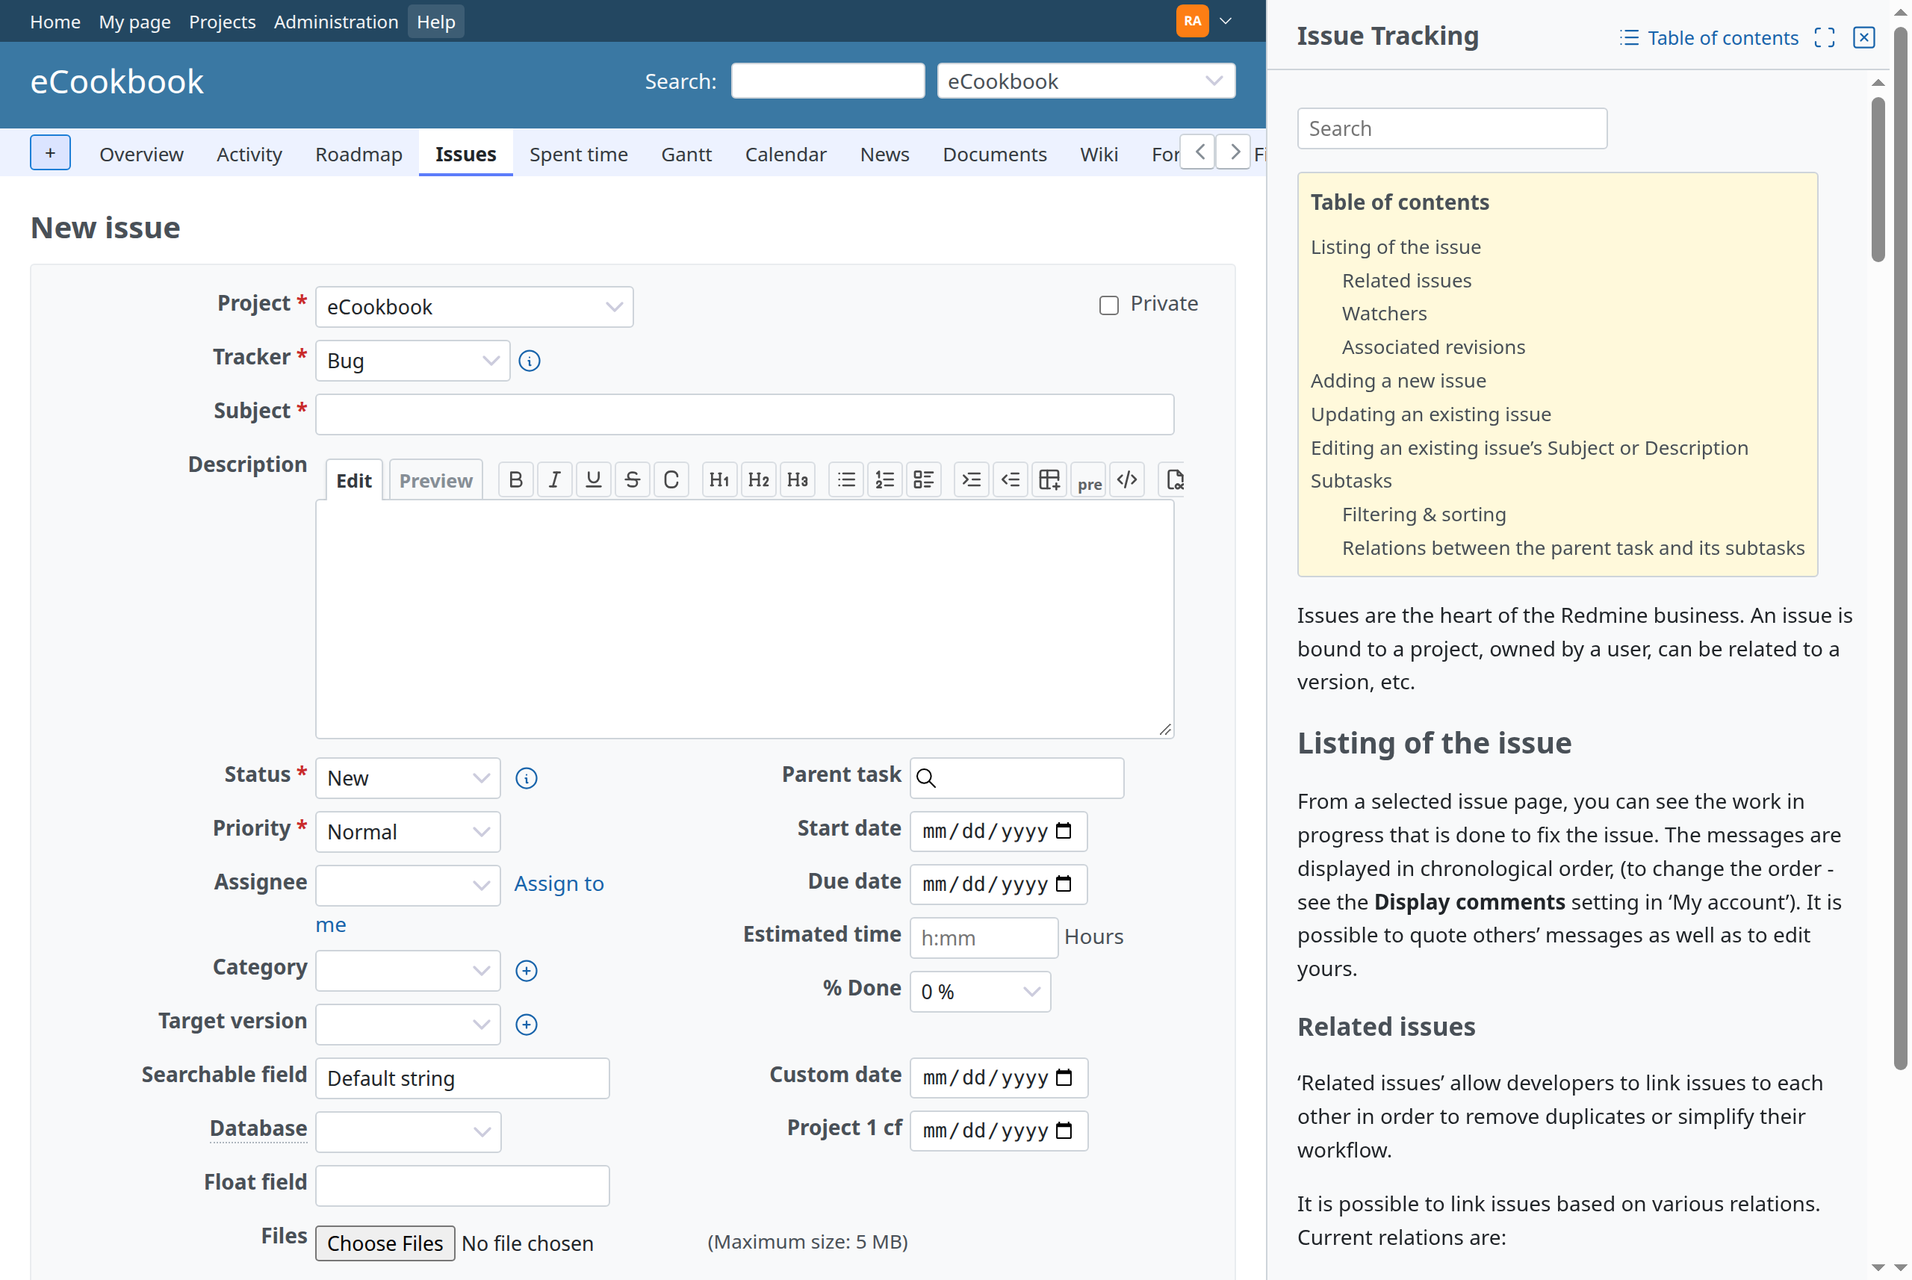
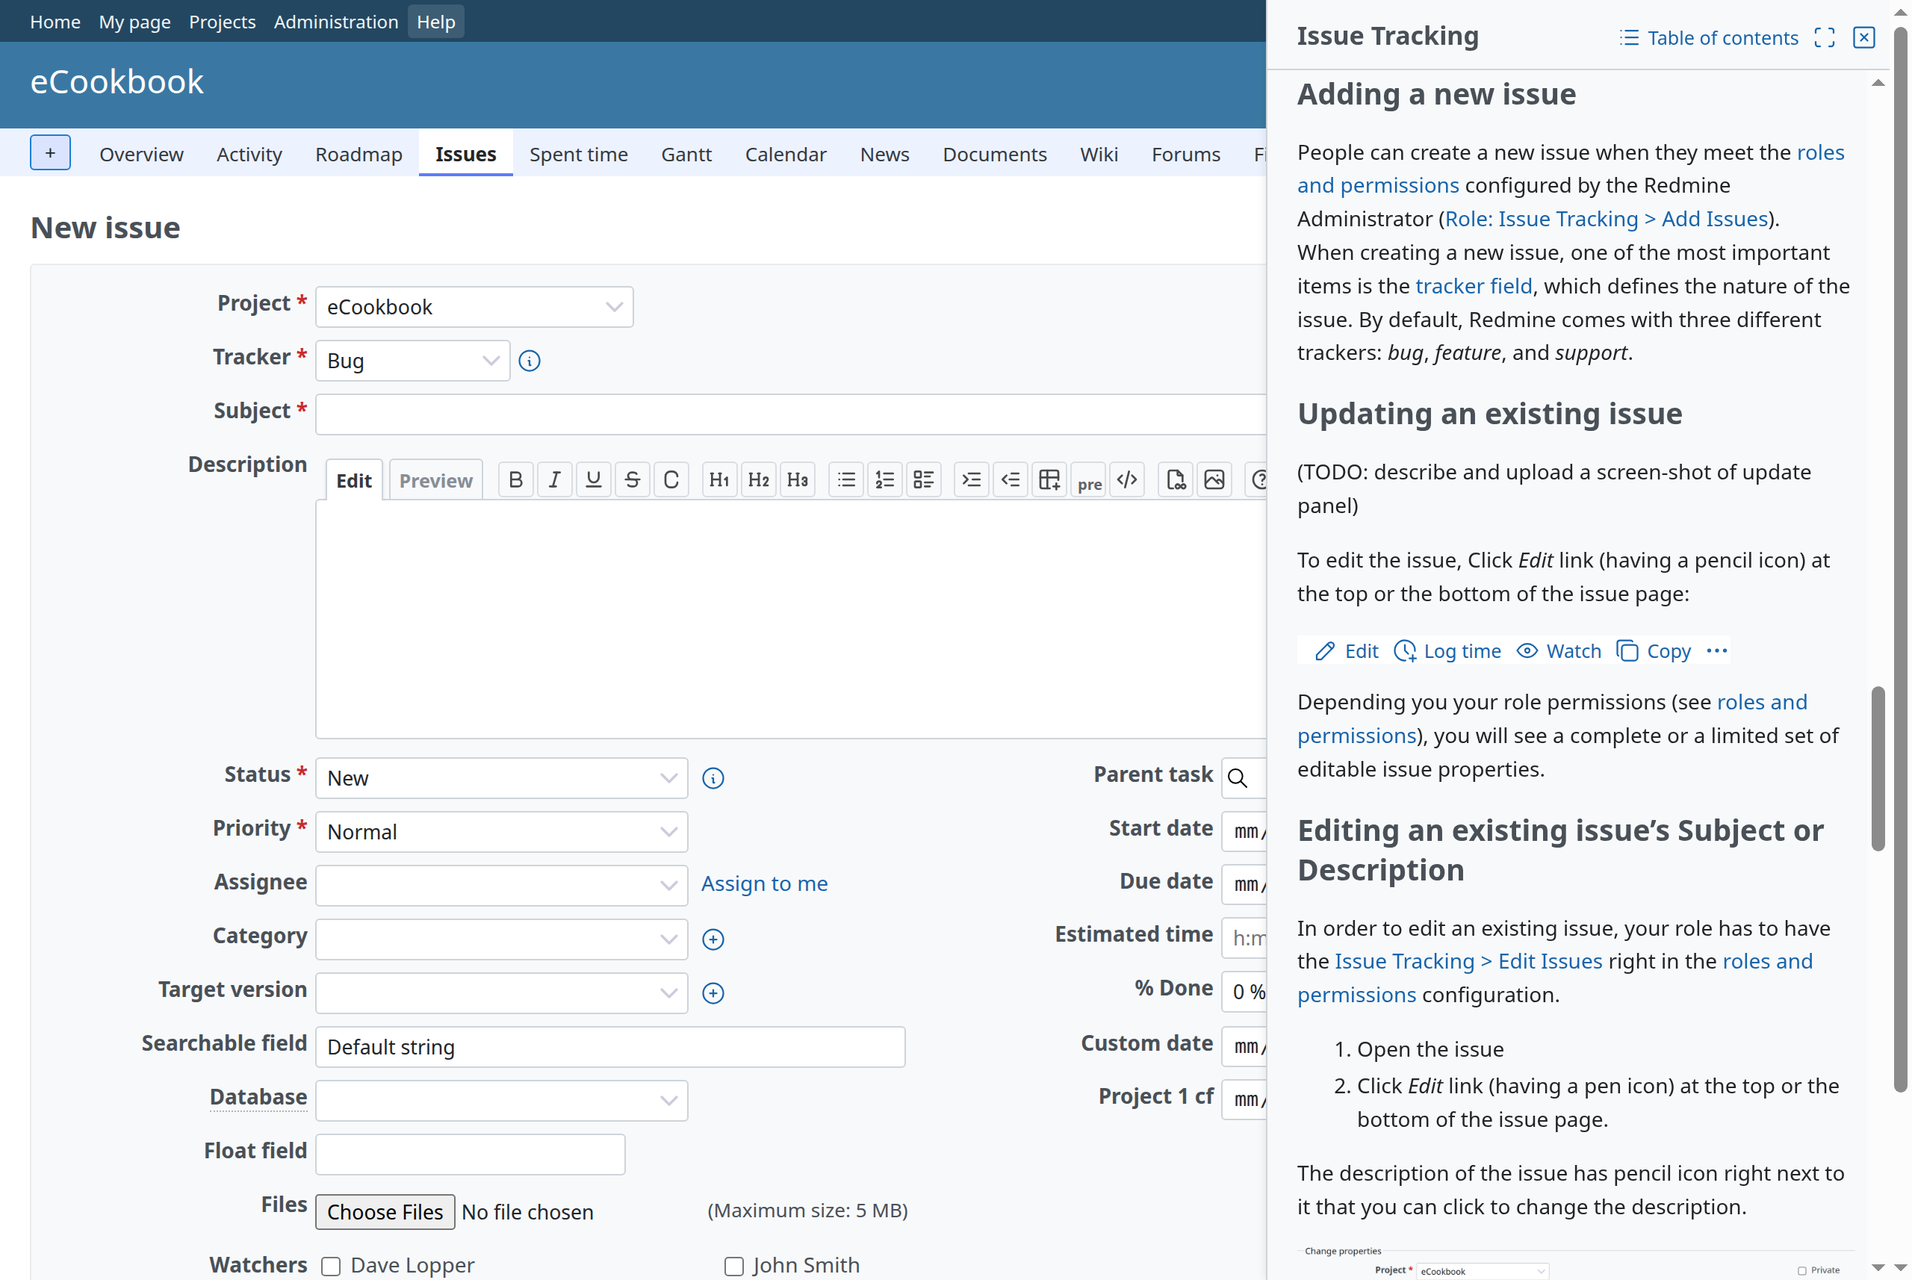
Lay the side panel over the page in the pattern
Redmine Help's panel is now laid over the end side of the window instead
of pushing the page: the CSS has no margin on #wrapper, the edge of core's
dropdowns, z-index 1001 above the sticky issue header and dropdowns, and
a class that puts the panel under core's modal dialogs while one is open.
The reasons, the checks and the screenshots (Japanese demo data in
Japanese) follow.

diff --git a/docs/ja/side-panel.md b/docs/ja/side-panel.md
@@ -1,14 +1,14 @@
 # サイドパネル
 
-ウィンドウの端、画面の横に開くパネルです。画面を操作しながら読む内容 (たとえば画面のヘルプ) に使います。Redmine 7.0.3 にはサイドパネルがないため、このパターンは本体の部品で組み立て、枠だけを小さなスタイルシートで足します。[Redmine Help](https://redmine-kit.github.io/redmine_help/ja/) のパターンです。Redmine Help では、ヘッダーの「ヘルプ」がいま開いている画面のヘルプをサイドパネルに開きます。
+ウィンドウの端に、画面に重ねて開くパネルです。画面を操作しながら読む内容 (たとえば画面のヘルプ) に使います。Redmine 7.0.3 にはサイドパネルがないため、このパターンは本体の部品で組み立て、枠だけを小さなスタイルシートで足します。[Redmine Help](https://redmine-kit.github.io/redmine_help/ja/) のパターンです。Redmine Help では、ヘッダーの「ヘルプ」がいま開いている画面のヘルプをサイドパネルに開きます。
 
-![新しいチケットのフォームの横の、Redmine Help のサイドパネル](images/side-panel.png)
+![新しいチケットのフォームに重ねた、Redmine Help のサイドパネル](images/side-panel.png)
 
 <a id="when-to-use-it"></a>
 
 ## 使う場面
 
-画面に付随し、画面を操作しながら読む内容に使います。サイドパネルを開いたままでも横の画面を操作でき、フォームにも入力できます。サイドパネルはモーダルではなく、画面を操作できないようにはしません。
+画面に付随し、画面を操作しながら読む内容に使います。サイドパネルは画面の端を覆い、覆っていない部分はそのまま操作でき、フォームにも入力できます。サイドパネルはモーダルではありません。背景を覆うことはなく、画面を操作できないようにはしません。
 
 終えるか取り消すまで先に進めない作業には、本体のモーダルダイアログ (`showModal`。`div.modal` の jQuery UI のダイアログ。プロジェクトの設定でメンバーを追加するときなど、`members/new.js.erb`) を使います。画面そのものに属する内容には、画面のサイドバー ([画面の組み立て](page.md#sidebar)) を使います。
 
@@ -65,7 +65,7 @@
 
 ## CSS
 
-新しく足すのは枠と位置だけで、サイドパネルの中はすべて本体のものです。色は本体の CSS 変数なので、これらを設定するテーマは、サイドバーと同じくサイドパネルにも反映されます。Redmine Help の `assets/stylesheets/help_panel.css` から:
+新しく足すのは枠、境界、位置だけで、サイドパネルの中はすべて本体のものです。色は本体の CSS 変数なので、これらを設定するテーマは、サイドバーと同じくサイドパネルにも反映されます。Redmine Help の `assets/stylesheets/help_panel.css` から:
 
 ```css
 :root { --help-panel-size: clamp(320px, 33vw, 480px); }
@@ -74,16 +74,18 @@
   position: fixed;
   inset-block: 0;
   inset-inline-end: 0;
-  z-index: 100;
+  z-index: 1001;
   box-sizing: border-box;
   inline-size: var(--help-panel-size);
   display: flex;
   flex-direction: column;
   background: var(--oc-gray-0);
   border-inline-start: 1px solid var(--oc-gray-4);
+  box-shadow: 0 0 6px rgba(var(--oc-black-rgb), 0.1);
   font-size: 0.875rem;
 }
 .help-panel[hidden] { display: none; }
+.help-panel.help-panel-under-dialog { z-index: 99; }
 .help-panel [hidden] { display: none; }
 .help-panel-header {
   padding-block: 10px 0;
@@ -98,24 +100,21 @@
   padding-inline: 20px 8px;
 }
 
-html.help-panel-open #wrapper { margin-inline-end: var(--help-panel-size); }
-html.help-panel-open #sticky-issue-header { inset-inline-end: var(--help-panel-size); }
-
 @media screen and (max-width: 899px) {
-  .help-panel { inline-size: auto; inset-inline-start: 0; z-index: 10000; border-inline-start: 0; }
-  html.help-panel-open #wrapper { margin-inline-end: 0; }
-  html.help-panel-open #sticky-issue-header { inset-inline-end: 0; }
+  .help-panel { inline-size: auto; inset-inline-start: 0; z-index: 10000; border-inline-start: 0; box-shadow: none; }
 }
 ```
 
 | ルール | 理由 |
 | --- | --- |
 | 幅 | ウィンドウの幅ごとの本体のサイドバーの幅 (240px から 380px) と同じくらいです |
-| 画面の横の空き | サイドパネルを開いている間、`#wrapper` にマージンを付けます。画面を覆わず、そのまま操作できます。本体のチケットのスティッキーヘッダーはウィンドウに固定されているので、同じだけ空けます |
-| `z-index: 100` | jQuery UI の `.ui-front` と同じです。本体のダイアログは後から文書に足されるので、サイドパネルの上に出ます |
+| 画面に重ねる | サイドパネルは画面に重ねて表示し、画面のレイアウトは変えません。覆っていない部分はそのまま操作できます。背景は覆いません |
+| 境界 | 本体のドロップダウン (`dropdown.css`) と同じ 1px の `var(--oc-gray-4)` の境界線と、`rgba(var(--oc-black-rgb), 0.1)` の薄い影です。高さいっぱいのパネルなので、影はずらしません |
+| `z-index: 1001` | 本体のチケットのスティッキーヘッダーとドロップダウン (`z-index: 1000`) より上にし、サイドパネルのヘッダーが隠れないようにします |
+| ダイアログの下 | 本体のモーダルダイアログ (jQuery UI の `.ui-front`、`z-index: 100`) は、そのままではサイドパネルの下に開きます。ダイアログを開いている間はスクリプトがサイドパネルに `help-panel-under-dialog` を付け (`dialogopen` と `dialogclose` のイベント)、ダイアログとその背景がサイドパネルの上に出ます |
 | 狭いウィンドウ | 本体のレスポンシブレイアウトのブレークポイント (`responsive.css`、幅 899px まで) では、サイドパネルがウィンドウ全体を覆います。本体の固定ヘッダー (そこでは `z-index: 9999`) より上です |
 | サイドパネルの中の `[hidden]` | 本体の `.icon` は `display: inline-flex` なので、`hidden` 属性で隠したアクションのリンク (最初のページの「戻る」) が表示されてしまいます |
-| 論理プロパティ | `inset-inline-end`、`border-inline-start`、`margin-inline-end` を使うので、右から左に書く言語ではサイドパネルが左に出ます。本体のルールと同じです |
+| 論理プロパティ | `inset-inline-end` と `border-inline-start` を使うので、右から左に書く言語ではサイドパネルが左に出ます。本体のルールと同じです |
 
 <a id="behavior"></a>
 
@@ -126,7 +125,7 @@ html.help-panel-open #sticky-issue-header { inset-inline-end: var(--help-panel-s
 | 開閉 | 画面のリンク (Redmine Help ではヘッダーの「ヘルプ」) でサイドパネルを開閉します。サイドパネルの「閉じる」と Esc キーでも閉じます |
 | 開閉のリンク | リンクに `role="button"`、`aria-expanded`、`aria-controls` (サイドパネルの id) を付けます。Enter と同じく Space キーでも押せます |
 | フォーカス | 開くとタイトル (`tabindex="-1"`) に、閉じると開閉のリンクに戻します。開閉のリンクが閉じたフライアウトメニューの中にある狭いウィンドウでは、メニューのボタンに戻します |
-| サイドパネルの中のリンク | サイドパネル自身の内容へのリンクはサイドパネルの中で開き、「戻る」で戻れます。ほかのページへのリンクは新しいウィンドウで開き、横の画面はそのまま残します |
+| サイドパネルの中のリンク | サイドパネル自身の内容へのリンクはサイドパネルの中で開き、「戻る」で戻れます。ほかのページへのリンクは新しいウィンドウで開き、サイドパネルの下の画面はそのまま残します |
 | ページをまたぐ状態 | 開いているかどうかを `localStorage` に保存し (`try`/`catch` で囲みます)、開いていれば次のページでも開きます |
 | JavaScript がないとき | 開閉のリンクは、同じ内容の全画面のページへの普通のリンクです |
 
@@ -134,6 +133,6 @@ html.help-panel-open #sticky-issue-header { inset-inline-end: var(--help-panel-s
 
 ## 本体と比べる
 
-サイドパネルを開いた画面と開いていない同じ画面のスクリーンショットを、同じ幅で、英語と日本語で撮って比べます。狭くなった幅でも、画面が本体と同じように並ぶことを確認します。狭いウィンドウも確認します。
+サイドパネルを開いた画面と開いていない同じ画面のスクリーンショットを、同じ幅で、英語と日本語で撮って比べます。サイドパネルの下でも画面のレイアウトが変わらないこと、サイドパネルの境界が画面と区別できることを確認します。サイドパネルを開いたまま本体のダイアログを開き、狭いウィンドウも確認します。
 
-![「管理」›「設定」›「認証」の横のサイドパネル](images/side-panel-settings.png)
+![「管理」›「設定」›「認証」に重ねたサイドパネル](images/side-panel-settings.png)

diff --git a/docs/side-panel.md b/docs/side-panel.md
@@ -1,12 +1,12 @@
 # Side panel
 
-A panel at the end side of the window, next to the page, for content that is read while working on the page: help for the screen, for example. Redmine 7.0.3 has no side panel, so this pattern is built from core's pieces with a small stylesheet for the frame. It comes from [Redmine Help](https://redmine-kit.github.io/redmine_help/), whose header link opens the help for the current screen in a side panel.
+A panel laid over the end side of the window, for content that is read while working on the page: help for the screen, for example. Redmine 7.0.3 has no side panel, so this pattern is built from core's pieces with a small stylesheet for the frame. It comes from [Redmine Help](https://redmine-kit.github.io/redmine_help/), whose header link opens the help for the current screen in a side panel.
 
-![The side panel of Redmine Help next to the new issue form](images/side-panel.png)
+![The side panel of Redmine Help over the new issue form](images/side-panel.png)
 
 ## When to use it
 
-Use a side panel for content that goes with the page and is read while the page is used: the page stays usable next to it, and a form can be filled in while the panel is open. The panel is not modal; it does not block the page.
+Use a side panel for content that goes with the page and is read while the page is used: the panel covers the end side of the page, the rest of the page stays usable, and a form can be filled in while the panel is open. The panel is not modal: there is no backdrop, and it does not block the page.
 
 For a task that has to be finished or cancelled before going on, use core's modal dialog instead (`showModal`, a jQuery UI dialog with `div.modal`, as for a new member in a project's settings, `members/new.js.erb`). For content that belongs to the page itself, use the page's own sidebar ([Page structure](page.md#sidebar)).
 
@@ -59,7 +59,7 @@ The header's actions are core's action links ([Icons and links](icons-and-links.
 
 ## CSS
 
-Only the frame and the position are new; everything inside the panel is core's. The colors are core's variables, so a theme that sets them styles the panel as it styles the sidebar. From Redmine Help's `assets/stylesheets/help_panel.css`:
+Only the frame, the edge and the position are new; everything inside the panel is core's. The colors are core's variables, so a theme that sets them styles the panel as it styles the sidebar. From Redmine Help's `assets/stylesheets/help_panel.css`:
 
 ```css
 :root { --help-panel-size: clamp(320px, 33vw, 480px); }
@@ -68,16 +68,18 @@ Only the frame and the position are new; everything inside the panel is core's. 
   position: fixed;
   inset-block: 0;
   inset-inline-end: 0;
-  z-index: 100;
+  z-index: 1001;
   box-sizing: border-box;
   inline-size: var(--help-panel-size);
   display: flex;
   flex-direction: column;
   background: var(--oc-gray-0);
   border-inline-start: 1px solid var(--oc-gray-4);
+  box-shadow: 0 0 6px rgba(var(--oc-black-rgb), 0.1);
   font-size: 0.875rem;
 }
 .help-panel[hidden] { display: none; }
+.help-panel.help-panel-under-dialog { z-index: 99; }
 .help-panel [hidden] { display: none; }
 .help-panel-header {
   padding-block: 10px 0;
@@ -92,24 +94,21 @@ Only the frame and the position are new; everything inside the panel is core's. 
   padding-inline: 20px 8px;
 }
 
-html.help-panel-open #wrapper { margin-inline-end: var(--help-panel-size); }
-html.help-panel-open #sticky-issue-header { inset-inline-end: var(--help-panel-size); }
-
 @media screen and (max-width: 899px) {
-  .help-panel { inline-size: auto; inset-inline-start: 0; z-index: 10000; border-inline-start: 0; }
-  html.help-panel-open #wrapper { margin-inline-end: 0; }
-  html.help-panel-open #sticky-issue-header { inset-inline-end: 0; }
+  .help-panel { inline-size: auto; inset-inline-start: 0; z-index: 10000; border-inline-start: 0; box-shadow: none; }
 }
 ```
 
 | Rule | Why |
 | --- | --- |
 | Width | About the width of core's sidebar at each window width (core's sidebar is 240px to 380px) |
-| Room next to the page | A margin on `#wrapper` while the panel is open, so that the page is not covered and stays usable. Core's sticky issue header is fixed to the window, so it gets the same room |
-| `z-index: 100` | jQuery UI's `.ui-front`: core's dialogs open later in the document and come above the panel |
+| Over the page | The panel is laid over the page, which keeps its layout; the part it does not cover stays usable. There is no backdrop |
+| Edge | The edge of core's dropdowns (`dropdown.css`: a 1px `var(--oc-gray-4)` border, a light shadow of `rgba(var(--oc-black-rgb), 0.1)`), without the offset, since the panel runs the full height |
+| `z-index: 1001` | Above core's sticky issue header and dropdowns (`z-index: 1000`), so that they don't cover the panel's header |
+| Under a dialog | Core's modal dialogs (jQuery UI's `.ui-front`, `z-index: 100`) would open under the panel. While one is open, the script gives the panel `help-panel-under-dialog` (`dialogopen` and `dialogclose` events), and the dialog and its backdrop come above it |
 | Narrow windows | At core's responsive breakpoint (`responsive.css`, up to 899px), the panel covers the window, above core's fixed header (`z-index: 9999` there) |
 | `[hidden]` inside the panel | Core's `.icon` is `display: inline-flex`, which would show an action link hidden with the `hidden` attribute (Back on the first page) |
-| Logical properties | `inset-inline-end`, `border-inline-start` and `margin-inline-end` put the panel at the left in right-to-left languages, as core's own rules do |
+| Logical properties | `inset-inline-end` and `border-inline-start` put the panel at the left in right-to-left languages, as core's own rules do |
 
 ## Behavior
 
@@ -118,12 +117,12 @@ html.help-panel-open #sticky-issue-header { inset-inline-end: var(--help-panel-s
 | Opening and closing | A link in the page (Redmine Help: the header's Help link) toggles the panel. Close in the panel and Esc close it too |
 | The toggle | The link gets `role="button"`, `aria-expanded` and `aria-controls` (the panel's id); Space presses it as Enter does |
 | Focus | Opening moves the focus to the title (`tabindex="-1"`); closing moves it back to the toggle. On narrow windows, where the toggle is in the closed flyout menu, to the menu's button |
-| Links in the panel | Links of the panel's own content load in the panel, with Back; links to other pages open in a new window, so that the page next to the panel stays |
+| Links in the panel | Links of the panel's own content load in the panel, with Back; links to other pages open in a new window, so that the page under the panel stays |
 | Kept across pages | Whether the panel is open is kept in `localStorage` (in `try`/`catch`), and an open panel opens again on the next page |
 | Without JavaScript | The toggle is a plain link to a full page with the same content |
 
 ## Compare with core
 
-Take screenshots of the page with the panel open and of the same page without it, at the same width, in English and Japanese, and check that the page still lays out as core does in the narrower width. Check a narrow window too.
+Take screenshots of the page with the panel open and of the same page without it, at the same width, in English and Japanese: the page keeps its layout under the panel, and the panel's edge stands out from the page. Open one of core's dialogs with the panel open, and check a narrow window too.
 
-![The side panel next to Administration › Settings › Authentication](images/side-panel-settings.png)
+![The side panel over Administration › Settings › Authentication](images/side-panel-settings.png)

diff --git a/docs/README.md b/docs/README.md
@@ -16,7 +16,7 @@ The approach: before writing a screen, pick the core screen of the same kind and
 | Notices, errors, warnings, empty states | Saving settings, a form with errors, an empty list | [Messages](messages.md) |
 | Icons, action links, delete links | Throughout | [Icons and links](icons-and-links.md) |
 | A tab of a project's settings | Project › Settings | [Project settings](project-settings.md) |
-| A panel next to the page, read while using it | None in core (Redmine Help's help panel) | [Side panel](side-panel.md) |
+| A panel over the side of the page, read while using it | None in core (Redmine Help's help panel) | [Side panel](side-panel.md) |
 
 Where no core screen fits, see [Building a screen with no matching pattern](no-pattern.md). For colors, use core's variables: see [Colors](colors.md).
 
